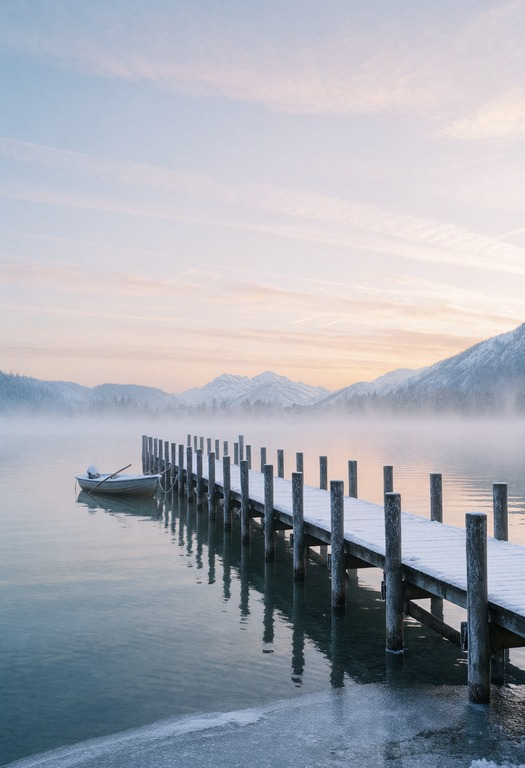
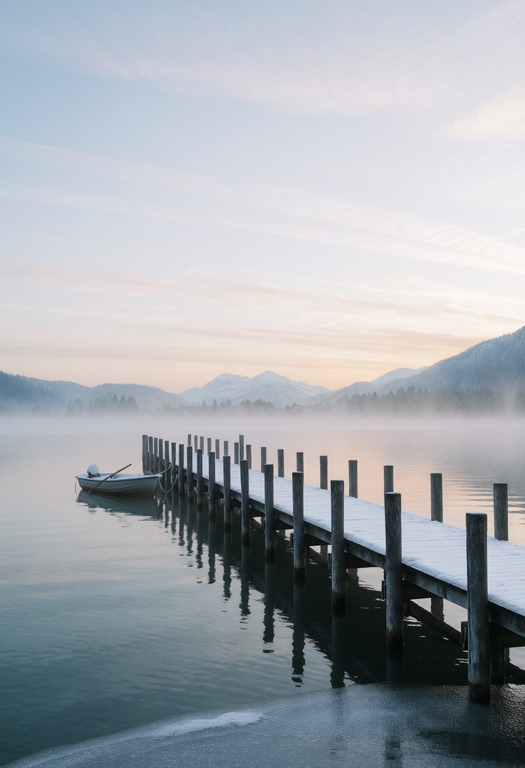
Qwen Image 2.1 Edit example: load the consistency LoRA
A LoRA Loader between the diffusion model and the reference cache loads
qwen-image-2.1-consistency.safetensors (step 1500) with the step 2000
file as an alternative row, and stops the run if the file is missing.
Qwen Image 2.1 restyles otherwise often come back about 4-5% taller and
shifted: over 36 held-out restyles the worst corner moved 24.3 px
(median) without the LoRA and 1.6 px with it.

The Workflow Note lists both files with their download links, the
README requirement row names the LoRA, and the example picture is a new
render of the updated graph.

diff --git a/README.md b/README.md
@@ -296,7 +296,7 @@ Copy the files in [`example_workflows/inputs/`](example_workflows/inputs) into `
 | [Krea 2 Prompt from Image](example_workflows/Krea%202%20Prompt%20from%20Image%20%28AusBoss%29.json) | The Krea text encoder describes a picture, then renders its prompt | Krea 2 components with core Text Generate support |
 | [Krea 2 Outpaint](example_workflows/Krea%202%20Outpaint%20%28AusBoss%29.json) | Describe the unpadded source, extend several sides, then stitch it back | Krea 2 Turbo + AnyPaint LoRA; reuses its text encoder for captions |
 | [Qwen Image 2.1 Text to Image](example_workflows/Qwen%20Image%202.1%20Text%20to%20Image%20%28AusBoss%29.json) | Prompt, optional LoRA stack, visual canvas sizing, and PNG output | Qwen Image 2.1 INT8, Qwen3-VL 8B INT8, and the 2.1 VAE; downloads on the note card |
-| [Qwen Image 2.1 Edit](example_workflows/Qwen%20Image%202.1%20Edit%20%28AusBoss%29.json) | Instruction-based editing at a source-derived size, with before/after comparison | Same Qwen 2.1 components; included pier image; supports additional references |
+| [Qwen Image 2.1 Edit](example_workflows/Qwen%20Image%202.1%20Edit%20%28AusBoss%29.json) | Instruction-based editing at a source-derived size, with before/after comparison | Same Qwen 2.1 components + the consistency LoRA; included pier image; supports additional references |
 | [Qwen Image 2.1 Edit + Realign](example_workflows/Qwen%20Image%202.1%20Edit%20%2B%20Realign%20%28AusBoss%29.json) | A style edit that came back taller, realigned onto its source and compared before and after | Same Qwen 2.1 components; included pier image |
 | [Klein 9B Edit](example_workflows/Klein%209B%20Edit%20%28AusBoss%29.json) | Edit a picture at a source-derived working size | Distilled Klein 9B, Qwen encoder, Flux 2 VAE |
 | [Klein 9B Inpaint](example_workflows/Klein%209B%20Inpaint%20%28AusBoss%29.json) | Refine the painted mask, crop, edit, and stitch | Same Klein components; included masked image |

diff --git a/CHANGELOG.md b/CHANGELOG.md
@@ -4,6 +4,17 @@ All notable changes to ComfyUI-AusBoss are documented here.
 
 ## Unreleased
 
+- **Qwen Image 2.1 Edit example: the consistency LoRA.** Qwen Image 2.1
+  restyles often come back about 4-5% taller and shifted off the source's
+  frame. The example now loads the Qwen Image 2.1 Consistency LoRA
+  (`ausboss/Qwen-Image-2.1-Consistency-LoRA` on Hugging Face) in a LoRA
+  Loader between the diffusion model and the reference cache: step 1500 is
+  on, and the tighter step 2000 file is one switch away. Over 36 held-out
+  restyles the worst corner moved 24.3 px (median) without it and 1.6 px
+  with it. The Loader stops the run when the file is missing instead of
+  quietly rendering plain Qwen 2.1; switch its row off to run without it.
+  The Workflow Note lists both files, and the picture beside the example is
+  a new render with the LoRA.
 - **New node (experimental): Realign to Source (EXPERIMENTAL 🧪) 🆎.** Qwen
   Image 2.1 draws broad edits (watercolor, anime, oil) a few percent taller
   than the source, up to about 12%, differently for every seed, and
